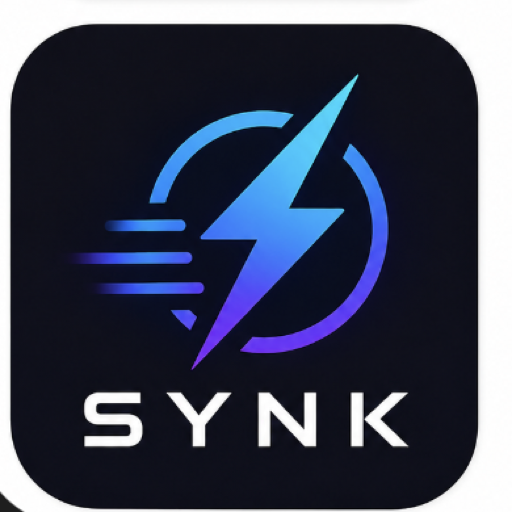
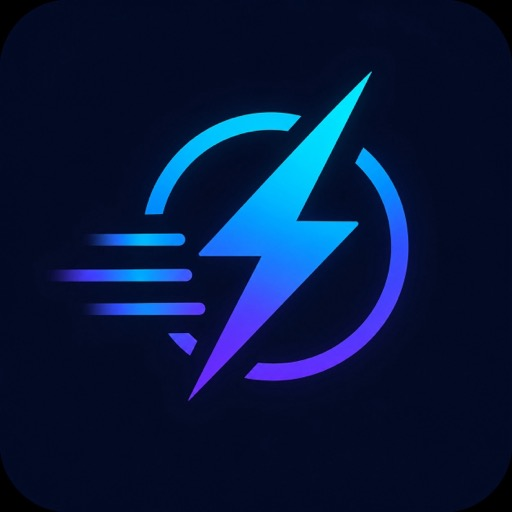
fix: PWA 아이콘 SYNK.jpeg(1254x1254)로 교체
- apple-touch-icon.png (180x180)
- icon-192.png (192x192)
- icon-512.png (512x512)
- index.html apple-touch-icon 경로 업데이트

diff --git a/index.html b/index.html
@@ -2,8 +2,8 @@
 <html lang="ko">
   <head>
     <meta charset="UTF-8" />
-    <link rel="icon" type="image/png" href="/SYNK_2.png" />
-    <link rel="apple-touch-icon" href="/SYNK_2.png" />
+    <link rel="icon" type="image/png" href="/icon-192.png" />
+    <link rel="apple-touch-icon" href="/apple-touch-icon.png" />
 
     <!-- Mobile viewport: disable zoom, respect safe areas -->
     <meta